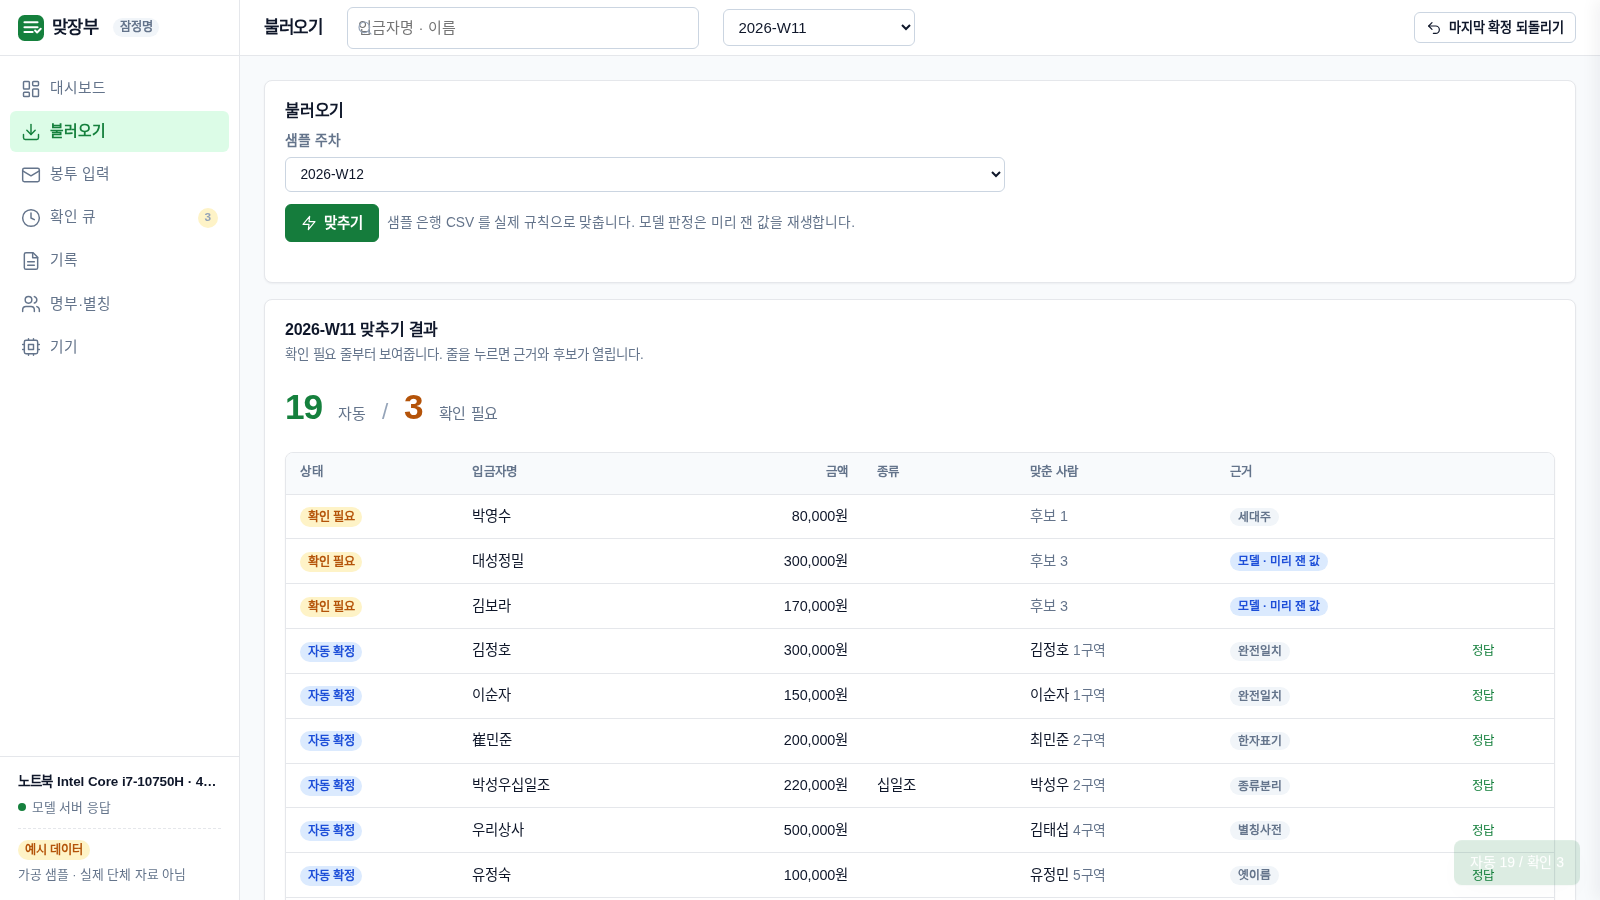
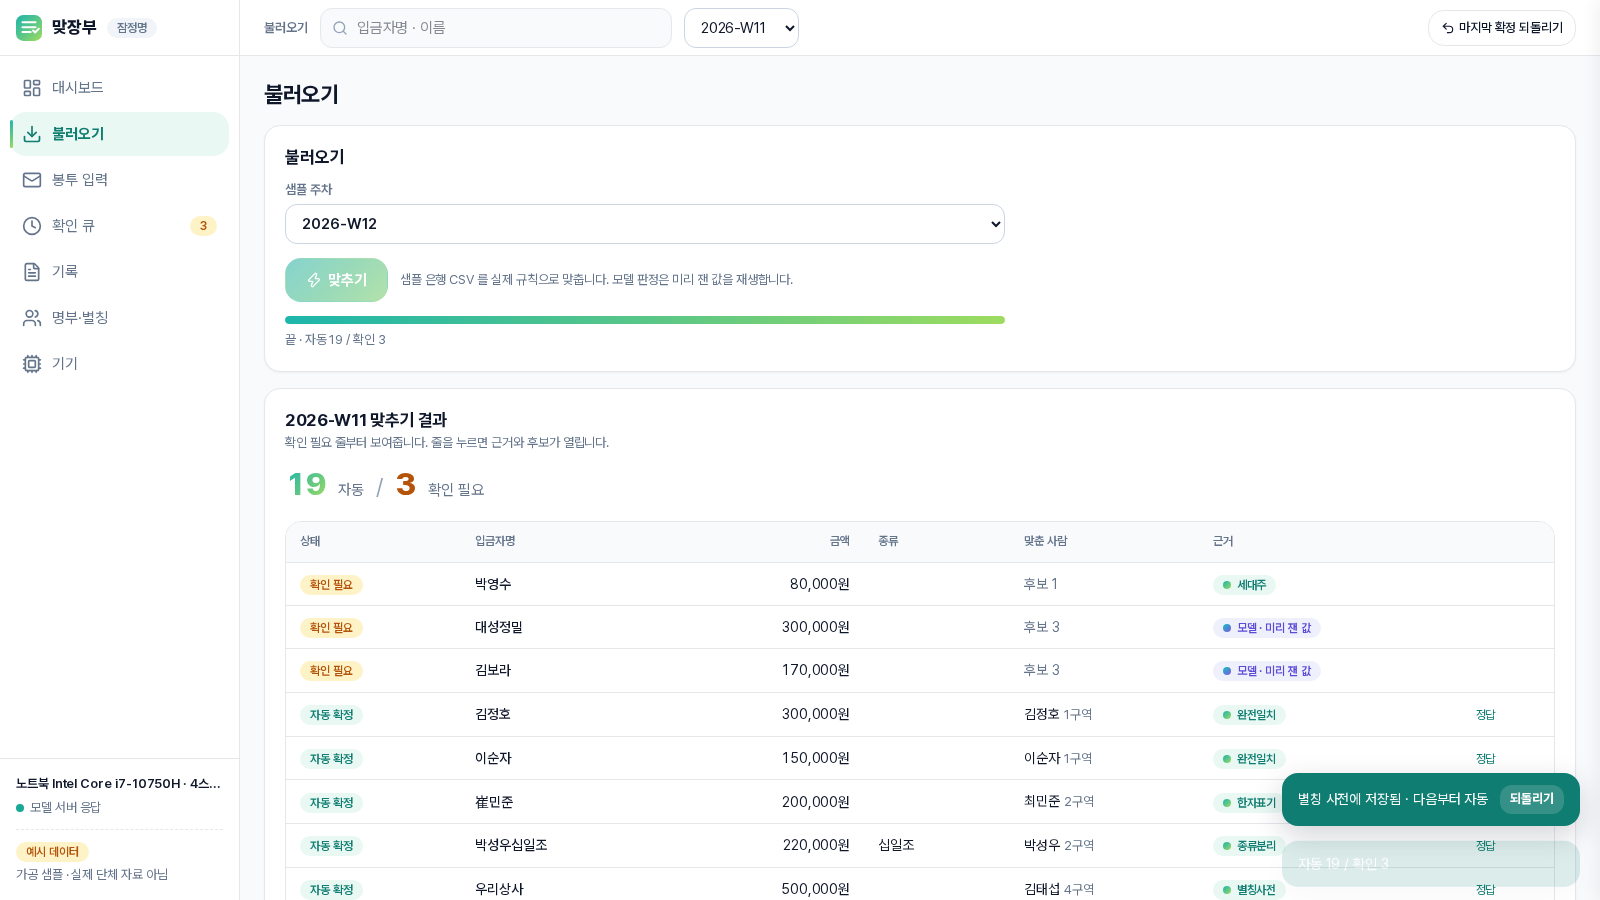
docs: 핸드오프 — UI 재설계 배포 완료, 다음은 사용자 검수·결정 대기

diff --git a/docs/handoffs/HANDOFF.md b/docs/handoffs/HANDOFF.md
@@ -1,70 +1,65 @@
-# HANDOFF — 맞장부 공개 배포 완료·다음 단계는 사용자 결정 대기 (updated 2026-09-21 00:15)
+# HANDOFF — 웹 UI 재설계(토스 TDS · 그라데이션 · `/try` React) 배포 완료 · 다음은 사용자 결정 대기 (updated 2026-09-21 03:45)
 
 ## 목표
-「맞장부(matjangbu)」— 모두의창업 I-009 헌금 이름 맞춤·기록 도우미를 나비(nabi-core) 방식으로 공개 배포하는 일.
-**2026-09-21 00:10 에 전부 끝났다.** 완료 판정(공개 `/try/`가 배너 없이 인스턴스에 붙음 · `/phone/`에 A31 행 2개 · `tools/verify_site.cjs` 공개 주소 0 · 통합 로그 `ALL-DONE` · 작업 트리 깨끗)을 모두 확인했다.
+「맞장부(matjangbu)」 사이트 네 장의 룩을 한 체계로 바꾸고, `/try` 체험 앱을 React + shadcn 으로 다시 짓는 일. 사용자 결정(2026-09-21): 색은 첨부 이미지(그라데이션 알약 3개)의 실측값, 주색 청록→초록, 폰트 Pretendard, 아이콘 Lucide, 토스 TDS 원칙·패턴 참고, **C안(React 전면 재작성)을 `/try` 한 장에만**, 데스크톱 우선·모바일은 무너지지 않게, 목업 없이 진행.
+**2026-09-21 03:41 에 공개 배포까지 끝났다.** 정본 스펙 `docs/superpowers/specs/2026-09-21-ui-toss-redesign-design.md`, 계획 `docs/superpowers/plans/2026-09-21-ui-toss-redesign.md`(과제 14개, 코드 전문 포함 — 실제 구현은 이 계획의 코드 블록을 awk 로 추출해 그대로 썼다).
 이 문서는 다음 세션이 **무엇을 이어서 할지 사용자에게 물어야 하는 상태**임을 알리기 위한 것이다. 스스로 다음 기능을 시작하지 않는다.
 
 ## 현재 상태
-- [x] 저장소 https://github.com/StopOrder/matjangbu (Apache-2.0, main + gh-pages) · 사이트 https://stoporder.github.io/matjangbu/ · main 은 origin 과 일치, 작업 트리 깨끗.
-- [x] 체험 인스턴스: systemd 사용자 서비스 `matjangbu-llama`(8107) · `matjangbu-web`(web --demo 8108, cors Pages 출처만), Linger=yes. Funnel `https://omarchy.tailb0e058.ts.net/` → 8108(공개 DNS 103.84.155.217/153).
-- [x] 공개 `/try/`: meta 에 Funnel 주소(커밋 30540a5). 검증 0(배너 없음), 인스턴스 내리면 배너 0, 끝까지 흐름(`tools/verify_funnel.cjs`) 0. 최종 화면 `docs/shots/08-public-funnel-w11.png`.
-- [x] 실측 3종 반영(사이트 `/`·`/phone/` 표 = `bench/results/*.md` summary):
-  - 노트북 i7-10750H 4스레드 Qwen — 줄당 14.7초, 후보 1위 13/25, relation 12/30, JSON 30/30(커밋 2dc9a57)
-  - A31 Qwen 8스레드 — 줄당 111.5초(97.3~135.6), pp 8.9 · tg 4.5, 1위 12/25, 3 안 13/25, relation 11/30, JSON 30/30(커밋 bc44631, 23:12 자동)
-  - A31 HyperCLOVAX-SEED 8스레드(비교값 배지) — 줄당 106.8초(84.6~129.7), pp 8.8 · tg 3.8, 1위 12/25, 3 안 14/25, relation 12/30, JSON 28/30(커밋 29e4cde, 00:09 자동, `ALL-DONE 00:09:41`)
-  - HyperCLOVAX JSON 실패 2건(family 김상철, renamed 유정숙)은 320 토큰 상한까지 같은 문구를 반복한 퇴행. 성공한 줄의 최대 생성 토큰은 175 라 `N_PREDICT` 상향으로는 안 풀린다 → 재실측 불필요(보고만).
-- [x] 도구·문서: `tools/verify_site.cjs --resolve`(테일넷 안 머신의 로컬 네트워크 접근 차단 우회) · `--expect-banner` 시 허용 출처 CORS 오류 예외 · `tools/verify_funnel.cjs` · `docs/ops.md` Funnel·검증·폴백 절차(커밋 ca162d3).
-- [x] 메모리 `~/.claude/projects/-home-stoporder/memory/matjangbu-public-deploy.md` 갱신(Funnel·A31 두 모델·검증 함정).
-- [ ] **사용자 검수 미완**: 사이트 문구, 낮은 모델 정확도(세 실측 모두 후보 1위 약 50%·relation 약 40%)를 사용자가 봤는지 모른다. 사용자가 이 수치를 사이트에 그대로 두는 데 동의했는지 확인이 필요하다.
-- [ ] 폰 정리: A31 의 `~/matjangbu-bench/`·모델 2개(약 2GB)는 그대로 두었다. 지울지는 사용자 결정.
+- [x] `ui/` — Vite 8 · React 19 · TypeScript 6 · Tailwind 4 · shadcn 4(radix-nova) · lucide-react · Vitest 5(테스트 20개: 폴백·CSV·주차·API SSE 파서·라우트·삼중 폴백·줄 도우미). `npm run build` → `site/try/`(index.html + `assets/index-*.js|css`, gzip JS 113KB · CSS 10KB). 산출물 커밋. `npm run dev` = 127.0.0.1:5173(`/api`·recorded.json·sample-envelopes.json·`/assets/fonts` 를 8108 로 프록시).
+- [x] 화면 7 전부 옮김 — 대시보드(타일 큰 숫자 그라데이션 글자, 모델 카드 보라 선) · 불러오기(SSE 그라데이션 진행 막대 + 실시간 표, 모바일 하단 고정 「맞추기」) · 봉투 입력(계수 검산 「일치」/「차이」 배지, 하단 고정 「저장」) · 확인 큐(**한 화면 한 일**: 후보 버튼만 보이고 「다른 방법 ▾」 아래 직접 고르기·새 이름 등록, 확정하면 카드 200ms 접힘, 토스트에 「되돌리기」) · 기록(알약 탭·스켈레톤·CSV 내보내기) · 명부·별칭(검색이 두 표 다 거름) · 기기. 줄 상세는 데스크톱 = 본문을 밀어내는 우측 패널 420px, 모바일(<1100px) = 바텀시트. 사이드바 → 모바일 하단 탭바 7칸.
+- [x] 삼중 폴백·`X-Matjangbu-Session`·`window.matjangbuApiBase`·해시 라우팅 그대로. 파이썬은 한 줄도 안 바꿈. pytest 44 통과(`/try/` 정적 HTML 에 `<h1` 이 있어야 해서 `<noscript><h1>` 을 둠).
+- [x] 정적 3장(`/`·`/download/`·`/phone/`): `site/assets/app.css`·랜딩 인라인 CSS 토큰 교체(주색 `--brand #17A896`·`--brand-ink #0F7D71`·`--brand-bg`, 그라데이션 토큰 4개, 모서리 16/12px, Pretendard 스택; `--green*` 은 별칭으로 남김) · 로고 마크 그라데이션 · 주 버튼 그라데이션 면 · 히어로 pill 점 · h1 「맞추고」 그라데이션 글자 · 파이프라인 AI 칸 보라 테두리·사람 칸 점.
+- [x] Pretendard Variable 1.3.9 자체 호스팅 `site/assets/fonts/pretendard/`(OFL, CSS 1 + woff2 92 + LICENSE, 3.1MB, 다이내믹 서브셋). 네 장 `<link>`. 외부 요청 0 유지.
+- [x] 검증 전부 0: `verify_site.cjs`(8108 배너 없음 · 8123 `--expect-banner --allow …` 폴백 · 공개 `--resolve`) · `site_shots.cjs`(8108, 7장, 콘솔 에러 0) · `verify_funnel.cjs`(공개, 11개 ✓, `docs/shots/08-public-funnel-w11.png`) · pytest 44. 검증 도구 두 개에 `[data-more]` 클릭 한 줄 추가.
+- [x] 배포: main 푸시 + `git subtree push --prefix site origin gh-pages`(03:41, Pages `built`). 공개 `/try/` 가 새 빌드(`assets/index-C_vx4uQ1.js`)를 서빙하고 Funnel 인스턴스에 붙는다.
+- [x] 문서: README(`ui/` 행·빌드 명령·npm 은 빌드 도구·라이선스 한 줄) · `docs/ops.md`(재배포 앞에 빌드, `[data-more]` 메모) · `docs/design-notes.md`(결정 2행) · 옛 스펙 §6 링크 · 스크린샷 `docs/shots/`(01~08, landing/download/phone, 모바일 m-queue·m-import·m-dashboard).
+- [x] 메모리 `~/.claude/projects/-home-stoporder/memory/matjangbu-public-deploy.md` 갱신.
+- [ ] **사용자 검수 미완**: 새 룩을 사용자가 아직 못 봤다(세션 중 화면은 스크린샷으로만 확인). 사이트 문구·낮은 정확도 수치(후보 1위 약 50%·relation 약 40%)를 그대로 둘지도 여전히 미결.
+- [ ] 폰 정리: A31 의 `~/matjangbu-bench/`·모델 2개(약 2GB) 그대로. 사용자 결정.
 
 ## 계획 (전문)
-새 작업은 없다. 다음 세션은 사용자에게 아래 중 무엇을 할지 묻는다(모두 사용자 결정 사항, 설계 정본 `docs/superpowers/specs/2026-09-20-matjangbu-design.md`의 「남은 것」).
-1. 암호화 백업(로컬 자료 보호) 2. 설치 zip(비개발자 설치) 3. 실제 은행 CSV 양식 대응(지금은 가공 샘플 양식) 4. A31 발열·장시간 실측 5. 구형 PC 실측 6. 사이트 문구·수치 검수 반영 7. 정확도 개선(프롬프트·후보 제시 방식) — 실측상 모델 단독 정확도는 낮고 규칙 2단이 실질 성능을 낸다.
+새 작업은 없다. 다음 세션은 사용자에게 아래 중 무엇을 할지 묻는다.
+1. 새 UI 검수 피드백 반영(색 강도·문구·간격 등 — `ui/src/index.css` 토큰과 각 view) 2. 사이트 문구·정확도 수치 검수 3. 암호화 백업 4. 설치 zip 5. 실제 은행 CSV 양식 6. A31 발열·장시간 실측 7. 구형 PC 실측 8. 정확도 개선(프롬프트·후보 제시) 9. 다크 모드(이번 재설계 범위 밖으로 둠).
 
 ## 결정사항과 이유
-- **배포 = 나비 방식**(공개 저장소 + Pages + 노트북 인스턴스 + 폐폰 실측). 교회 설치가 아니다. 사용자 결정 2026-09-20. A31 은 실측 기기이지 서버가 아니다.
-- 이름 「맞장부」(잠정명), slug `matjangbu`, 저장소 StopOrder. 로컬 `~/Projects/03-personal/matjangbu`, main 에서 직접 작업.
-- 기본 모델 Qwen2.5-1.5B-Instruct Q4_K_M(Apache-2.0). HyperCLOVAX-SEED 는 자체 약관이라 비교값만(`tools/bench_table.py`가 배지를 붙인다). 사이트에 가격 없음.
-- 모델 결과는 항상 확인 큐(자동 확정 없음), 동명이인은 모델을 거치지 않는다. 모델이 낸 헌금 종류는 원문에 그 글자가 있을 때만 받는다.
-- 체험 모드는 샘플 CSV 를 실제 규칙으로 돌리고 모델만 `recorded.json`에서 재생. 세션은 방문자마다 따로(`X-Matjangbu-Session`), ThreadingHTTPServer 라 동시 방문자 가능.
-- 포트: 인스턴스 8107/8108, 벤치 8117, 정적 검증 8123(pid 371329, 죽어도 무방).
-- 사이트 실측표는 `bench/results/*.md`의 summary JSON 에서만 채운다. 재지 않은 숫자는 「측정 예정」.
-- **Funnel 주소를 meta 에 넣되 인스턴스 CORS 는 Pages 출처만 허용** — 로컬 정적 서버(8123)에서는 일부러 폴백으로 떨어진다.
-- **검증 도구 `--resolve`**: 테일넷 안 머신은 Funnel 호스트가 MagicDNS 로 100.92.94.119 로 풀리고 Chromium 이 공개 사이트→「local 주소 공간」 fetch 를 막는다. 공개 IP 로 고정해 외부 방문자 경로로 검증. **사용자 자신의 Tailscale 켜진 기기에서 공개 `/try/`를 열면 브라우저가 로컬 네트워크 접근 허용을 한 번 묻는다**(거부하면 읽기 전용 폴백).
-- **`--expect-banner`일 때 허용 출처의 CORS 차단 콘솔 오류는 정상** — 인스턴스가 죽으면 Funnel 이 CORS 헤더 없는 502 를 주고 그 실패가 폴백의 계기다.
-- **끝까지 흐름 검증은 조건 대기만** — 공개 인그레스 경유 요청은 0.5~3초. `#imp-progress`의 「끝」과 토스트는 일시 표시라 기준 아님. `tools/site_shots.cjs`는 「끝」을 기다리므로 로컬 8108 전용.
+- **C안(React)을 `/try` 에만, 정적 3장은 토큰만** — 상호작용이 있는 장이 하나뿐이고 랜딩은 인스턴스가 죽어도 살아야 한다. 「파일 하나」 규칙은 「인스턴스에 의존하지 않는다」로 정확히 했고 같은 출처 폰트 파일은 `dashboard.jpg` 처럼 허용.
+- **그라데이션 3종 = 규칙·모델·사람 세 경로**(청록→초록 주색 / 파랑→보라 / 초록→노랑). 5종류 요소(주 버튼 면·활성 메뉴 표시·로고·큰 숫자 글자·진행 막대/경로 점)에만, 면에는 금지. 「확인 필요」는 앰버 단색(초록→노랑과 헷갈림 방지). 흰 글자 면은 눌린 stop(`--grad-brand-deep`)으로 대비 보완.
+- **토스트 자체 구현·react-router 없음·상태 라이브러리 없음** — 검증 도구 DOM 계약(`#toasts .toast.err`) 유지, 해시 라우트 7개에 라이브러리는 과함.
+- **네이티브 `<select>` 유지**(주차·샘플 주차·직접 고르기) — Playwright `selectOption` 계약. shadcn 은 button·badge·card·input·sheet·collapsible·skeleton 만.
+- **빌드 산출물 커밋** — 파이썬 서버·Pages·subtree push 절차를 안 바꾼다. Vite 파일명 해시는 서버 `_NO_CACHE`(.js/.css) 덕에 어느 쪽이든 안전.
+- 데스크톱 패널은 본문을 **밀어내는** 동작 유지(패널 열어 둔 채 다른 줄로 옮겨 가는 확인 작업 흐름). Tailwind `lg` 경계를 1100px 로 맞춤(`--breakpoint-lg`).
+- 공개 배포까지 이 세션에서 진행 — 사용자가 「이대로 승인·진행」했고 되돌리기는 revert + subtree push 로 가능.
 
 ## 시도했지만 안 된 것
-- 공개 검증을 `--allow`만으로: 「Permission was denied for this request to access the `local` address space」 → `--resolve`.
-- 흐름 테스트 첫 두 판 실패는 앱이 아니라 테스트의 고정 대기·일시 상태 단언 탓. curl 재현(상태→확정→불러오기→SSE)으로 서버·프록시 정상을 먼저 확인하고 계측 붙인 브라우저 흐름에서 원인을 봤다. 고친 뒤 검증과 동시에 돌려도 통과.
-- Playwright `<option>`은 `visible`이 될 수 없다 → `waitFor({state: 'attached'})`. 불러오기 화면은 열리자마자 현재 주차(W10) 표를 먼저 보여준다 → W11 결과는 머리글과 함께 기다린다.
-- `pgrep -f a31-integrate.sh`를 Bash 도구로 치면 자기 래퍼 명령줄도 잡힌다(실제 스크립트는 1개였다).
-- 이전 세션의 것: `pkill -f 'llama-server…'` 자기 매칭(exit 144) → `pkill -x`; Termux 에 `/tmp` 없음; llama.cpp 릴리스는 `bNNNNN` 태그 tar.gz; 폰 LAN 주소 scp 불가(Tailscale 주소로); `gh api … pages` JSON 오류는 무시; SSE 는 `EventSource` 대신 `fetch`+ReadableStream; 첫 기록의 모델 지어내기 → 프롬프트 규칙 5개·예시 3개·`N_PREDICT` 320; Playwright `.mjs`는 `NODE_PATH` 무시 → `.cjs`.
+- `<svg hidden>` 스프라이트 안에 `<linearGradient>` 를 두면 Chromium 이 그리지 않아 로고가 빈 자리로 나왔다 → 스프라이트를 `width="0" height="0" style="position:absolute"` 로.
+- Vite 8 개발 서버는 기본이 `[::1]` 이라 `127.0.0.1:5173` 이 안 닿았다 → `server.host: "127.0.0.1"`.
+- 스캐폴드의 `@types/node@20` 과 vitest 5 가 ERESOLVE 충돌 → `@types/node@^26`. `tsc --noEmit` 은 솔루션 tsconfig(`files: []`)에서 아무것도 검사하지 않는다 → `typecheck` 는 `tsc -b`.
+- Tailwind 의 `sticky` 유틸과 이름이 겹쳐 하단 고정 띠 클래스를 `cta-fixed` 로. shadcn 의 `muted`(면)/`muted-foreground`(글자) 의미를 지키느라 회색 글자는 전부 `text-muted-foreground`.
+- 모바일에서 토스트가 하단 고정 CTA 의 설명 문구와 겹쳤다 → 고정 띠에서는 설명을 숨기고 토스트를 `tabbar + 84px` 위로.
+- pytest 가 `/try/` 정적 HTML 에 `<h1` 을 요구해 실패 → `<noscript><h1>`(JS 없는 브라우저에도 의미가 맞다).
+- `pkill -f 'vite --port 5173'` 은 자기 셸을 죽인다(exit 144) → pid 로 kill, 서버는 `setsid` 로 띄움.
 
 ## 핵심 파일·명령
-- `~/Projects/03-personal/matjangbu/` — `engine/` · `web/` · `site/` · `bench/` · `samples/` · `tests/` · `tools/`(verify_site.cjs · verify_funnel.cjs · site_shots.cjs · bench_table.py) · `docs/ops.md`(운영 절차 정본).
-- 테스트: `.venv/bin/python -m pytest -q`(44개). 공개 검증(`NODE_PATH=~/workspace/02-sandbox/mvp-agent/node_modules` 필요):
-  - `node tools/verify_site.cjs --base https://stoporder.github.io/matjangbu --allow https://omarchy.tailb0e058.ts.net --resolve omarchy.tailb0e058.ts.net=103.84.155.217 [--expect-banner]`
-  - `node tools/verify_funnel.cjs --base https://stoporder.github.io/matjangbu --api https://omarchy.tailb0e058.ts.net/ --resolve omarchy.tailb0e058.ts.net=103.84.155.217 --out docs/shots/08-public-funnel-w11.png [--trace]`
-- 인스턴스: `systemctl --user status matjangbu-llama matjangbu-web` · `curl -s 127.0.0.1:8108/api/health` · `tailscale funnel status`, 끄기 `tailscale funnel --https=443 off`.
-- 재배포: `git push && git subtree push --prefix site origin gh-pages`(1~2분 뒤 반영).
-- 폰: `ssh -o BatchMode=yes -p 8022 u0_a280@100.74.136.5`, 벤치 폴더 `~/matjangbu-bench/`(결과·로그), 모델 `~/models/`.
-- 통합 스크립트 `/tmp/claude-1000/a31-integrate.sh`·로그(끝남, 재부팅 때 사라짐). 수동 절차는 `bench/README.md`·`docs/ops.md`.
+- `ui/` — `src/{store,load,api,fallback,route,lines,labels,format,types}.ts(x)` · `src/components/`(Layout·Sidebar·Topbar·TabBar·Banner·Toasts·LinePanel·CandidatePicker·LineTable·CsvTable·StateBadge·HowBadge·GradientNumber·StatTile·ProgressBar·SectionHead·Foot·EmptyState·`ui/` shadcn) · `src/views/`(7) · `src/index.css`(토큰·골격·컴포넌트 클래스) · `test/`.
+- 빌드·테스트: `cd ui && npm ci && npm run build`(→ `site/try/`) · `npm test` · `npm run typecheck`(= `tsc -b`) · `npm run dev`(5173).
+- 검증(`NODE_PATH=~/workspace/02-sandbox/mvp-agent/node_modules`): `node tools/verify_site.cjs --base http://127.0.0.1:8108` · `… --base http://127.0.0.1:8123 --expect-banner --allow https://omarchy.tailb0e058.ts.net` · 공개 `… --base https://stoporder.github.io/matjangbu --allow https://omarchy.tailb0e058.ts.net --resolve omarchy.tailb0e058.ts.net=103.84.155.217` · `node tools/verify_funnel.cjs --base … --api https://omarchy.tailb0e058.ts.net/ --resolve … --out docs/shots/08-public-funnel-w11.png` · `node tools/site_shots.cjs docs/shots --base http://127.0.0.1:8108` · `node tools/dev_shot.cjs <url> <png> [--mobile]`.
+- 인스턴스: `systemctl --user status matjangbu-llama matjangbu-web` · `curl -s 127.0.0.1:8108/api/health`. **8108 은 작업 트리의 `site/` 를 그대로 서빙한다** — `site/try/` 를 빌드하면 Funnel 의 `/try/` 도 즉시 바뀐다(공개 Pages 는 subtree push 전까지 그대로).
+- 재배포: `git push && git subtree push --prefix site origin gh-pages`(1~2분). 정적 검증 서버 8123 은 `python3 -m http.server 8123 -d site`.
 - 메모리: `~/.claude/projects/-home-stoporder/memory/matjangbu-public-deploy.md`.
 
 ## 다음 액션
 <!-- NEXT-ACTIONS -->
-- [ ] 사용자에게 묻기: 사이트 문구·낮은 정확도 수치를 그대로 둘지, 「계획」의 1~7 중 무엇을 이어갈지, 폰의 벤치 폴더·모델을 지울지
-- [ ] 사용자가 고른 항목만 새 계획으로(brainstorming → 설계 → 계획). 스스로 시작하지 않는다
+- [ ] 사용자에게 새 룩을 보게 하고(공개 `https://stoporder.github.io/matjangbu/` · `/try/`) 검수 피드백을 받기 — 고칠 곳은 `ui/src/index.css` 토큰·해당 view, 고친 뒤 빌드→검증→커밋→subtree push
+- [ ] 사용자에게 묻기: 문구·정확도 수치를 그대로 둘지, 「계획」 1~9 중 무엇을 이어갈지, 폰의 벤치 폴더·모델을 지울지. 스스로 시작하지 않는다
 <!-- /NEXT-ACTIONS -->
 
 ## 추천 스킬·도구
-- 이어갈 기능이 정해지면 brainstorming → writing-plans. 화면을 다시 찍을 땐 `node tools/site_shots.cjs docs/shots --base http://127.0.0.1:8108`(로컬), 공개 흐름 최종 화면은 `tools/verify_funnel.cjs --out`.
+- 이어갈 기능이 정해지면 brainstorming → writing-plans(이번처럼 계획에 코드 전문을 넣고 awk 로 추출하는 방식이 잘 맞았다). 화면 확인은 `tools/dev_shot.cjs`(개발 서버) → `site_shots.cjs`(빌드 뒤).
 
 ## 주의사항
+- `/try` 를 고치면 **반드시 `npm run build`** 하고 산출물을 커밋한다. `ui/node_modules/` 는 커밋하지 않는다.
 - 실제 단체 자료를 저장소·인스턴스에 넣지 않는다. 사이트에 재지 않은 숫자·가격·고객 수를 적지 않는다.
-- 폰에서 벤치를 다시 돌릴 땐 다른 llama 프로세스를 띄우지 않는다(LMK 가 Termux·sshd 까지 죽인다). `pkill -f`·`pgrep -f`로 llama-server·bench 를 판정하지 않는다.
-- 검증·흐름 스크립트를 폴백 검증(인스턴스 내림)과 동시에 돌리지 않는다.
+- 그라데이션은 5종류 요소에만. 면(카드·배경·표 머리)에 쓰지 않는다. 「확인 필요」는 앰버 단색.
+- 검증·흐름 스크립트를 폴백 검증(인스턴스 내림)과 동시에 돌리지 않는다. `pkill -f`·`pgrep -f` 로 vite·llama·bench 를 판정하지 않는다.
 - 커밋 메시지 끝: `Co-Authored-By: Claude Fable 5.1 <noreply@anthropic.com>`.
